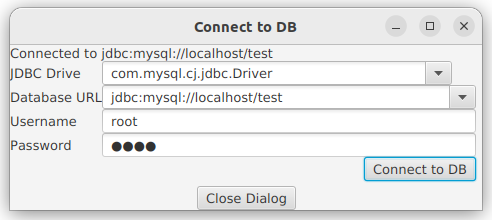
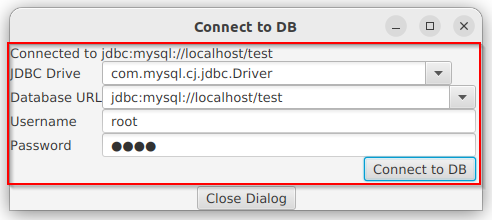
highlighted DBConnectionPane

Changed region(s): [[0.0, 0.1909, 1.0, 0.8727]]

diff --git a/reviews/Review3.md b/reviews/Review3.md
@@ -1,9 +1,134 @@
 # Review for exam 3
 Covers module 5-7, chapter 
 
-- 32. Multithreading and Parallel Programming
-- 33. Networking
-- 34. Java Database Programming
-- 35. Advanced Database Programming
+- 32 ▶ Multithreading and Parallel Programming
+- 33 ▶ Networking
+- 34 ▶ Java Database Programming
+- 35 ▶ Advanced Database Programming
 
+
+# 32 ▶ Multithreading and Parallel Programming
+- 32.1 How to create multiple thread programs?
+  - How to define a task?
+  - How to start a thread?
+    - In the main method, do the following change then analyze the output
+      - case 1: change the three start to run
+      - case 2: change 
+        - thread1.start() to printA.run()
+        - thread2.start() to printB.run()
+        - thread3.start() to print100.run()
+
+```java
+public class TaskThreadDemo {
+  public static void main(String[] args) {
+    Runnable printA = new PrintChar('a', 100);
+    Runnable printB = new PrintChar('b', 100);
+    Runnable print100 = new PrintNum(100);
+
+    Thread thread1 = new Thread(printA);
+    Thread thread2 = new Thread(printB);
+    Thread thread3 = new Thread(print100);
+
+    thread1.start();
+    thread2.start();
+    thread3.start();
+  }
+}
+
+class PrintChar implements Runnable {
+  private char charToPrint;
+  private int times;
+
+  public PrintChar(char c, int t) {
+    charToPrint = c;
+    times = t;
+  }
+
+  @Override
+  public void run() {
+    for (int i = 0; i < times; i++) {
+      System.out.print(charToPrint);
+    }
+  }
+}
+
+class PrintNum implements Runnable {
+  private int lastNum;
+
+  public PrintNum(int n) {
+    lastNum = n;
+  }
+
+  @Override
+  public void run() {
+    for (int i = 1; i <= lastNum; i++) {
+      System.out.print(" " + i);
+    }
+  }
+}
+```
+
+- 32.2 How to create animation manually using a nonapplication thread and the Platform.runLater Method?
+  - Layout JavaFX GUI in the JavaFX *application* thread
+  - In the nonapplication thread
+    - update GUI in the application thread by invoking Platform.runLater(Runnable r)
+      - this Runnable object will be executed in the application thread
+      - modify GUI in the run method of this Runnable object
+    - adjust animation speed using Thread.sleep(long millis)
+
+```java
+import javafx.application.Application;
+import javafx.application.Platform;
+import javafx.scene.Scene;
+import javafx.scene.layout.*;
+import javafx.scene.shape.Circle;
+import javafx.stage.Stage;
+
+public class BouncingBall extends Application {
+  private Circle ball = new Circle(100,100,30);
+  private double centerX = ball.getCenterX();
+  private int direction = 1;
+  
+  @Override
+  public void start(Stage primaryStage) {   
+    Pane pane = new Pane();
+    pane.getChildren().add(ball);
+    
+    new Thread(new Runnable() {
+      @Override
+      public void run() {
+        try {
+          while (true) {
+            // generate animation 
+            Platform.runLater(()->{
+              if (centerX >= pane.getWidth()) {
+                direction = -1;
+              } 
+              if(centerX <= 0){
+                direction = 1;
+              }
+              centerX += direction;
+              ball.setCenterX(centerX);
+            });
+            
+            // adjust animation speed
+            Thread.sleep(20);
+          }
+        }
+        catch (InterruptedException ex) {
+        }
+      }
+    }).start();
+    
+    Scene scene = new Scene(pane, 200, 200);
+    primaryStage.setTitle("Bouncing Ball");
+    primaryStage.setScene(scene);
+    primaryStage.show();
+  }
+
+  public static void main(String[] args) {
+    launch(args);
+  }
+}
+```
 

diff --git a/mod7/labs/Lab5.md b/mod7/labs/Lab5.md
@@ -13,7 +13,7 @@ Write a program that
   create table DBTABLE(num1 double, num2 double, num3 double)
   ```
   - Use the Math.random() method to generate random numbers for each record
-- Create a dialog box that contains DBConnectionPanel as described in the Extra Credit
+- Create a dialog box that contains DBConnectionPane shown in the red box below
   - its jar file is provide [here](./resources/DBConnectionPane.jar) 
     - use the jar file in VS Code
       - Add to "JAVA PROJECTS" -> "Referenced Libraries"
@@ -28,6 +28,7 @@ Write a program that
   - Use this dialog box to connect to the database as shown below
   - ![connect to database](./images/con2db.png)
 - **Hints**
+  - create a thread for each update to avoid frizzing the GUI
   - Batch update implementation in one thread
     - drop the table TBBATCH
       ```sql
